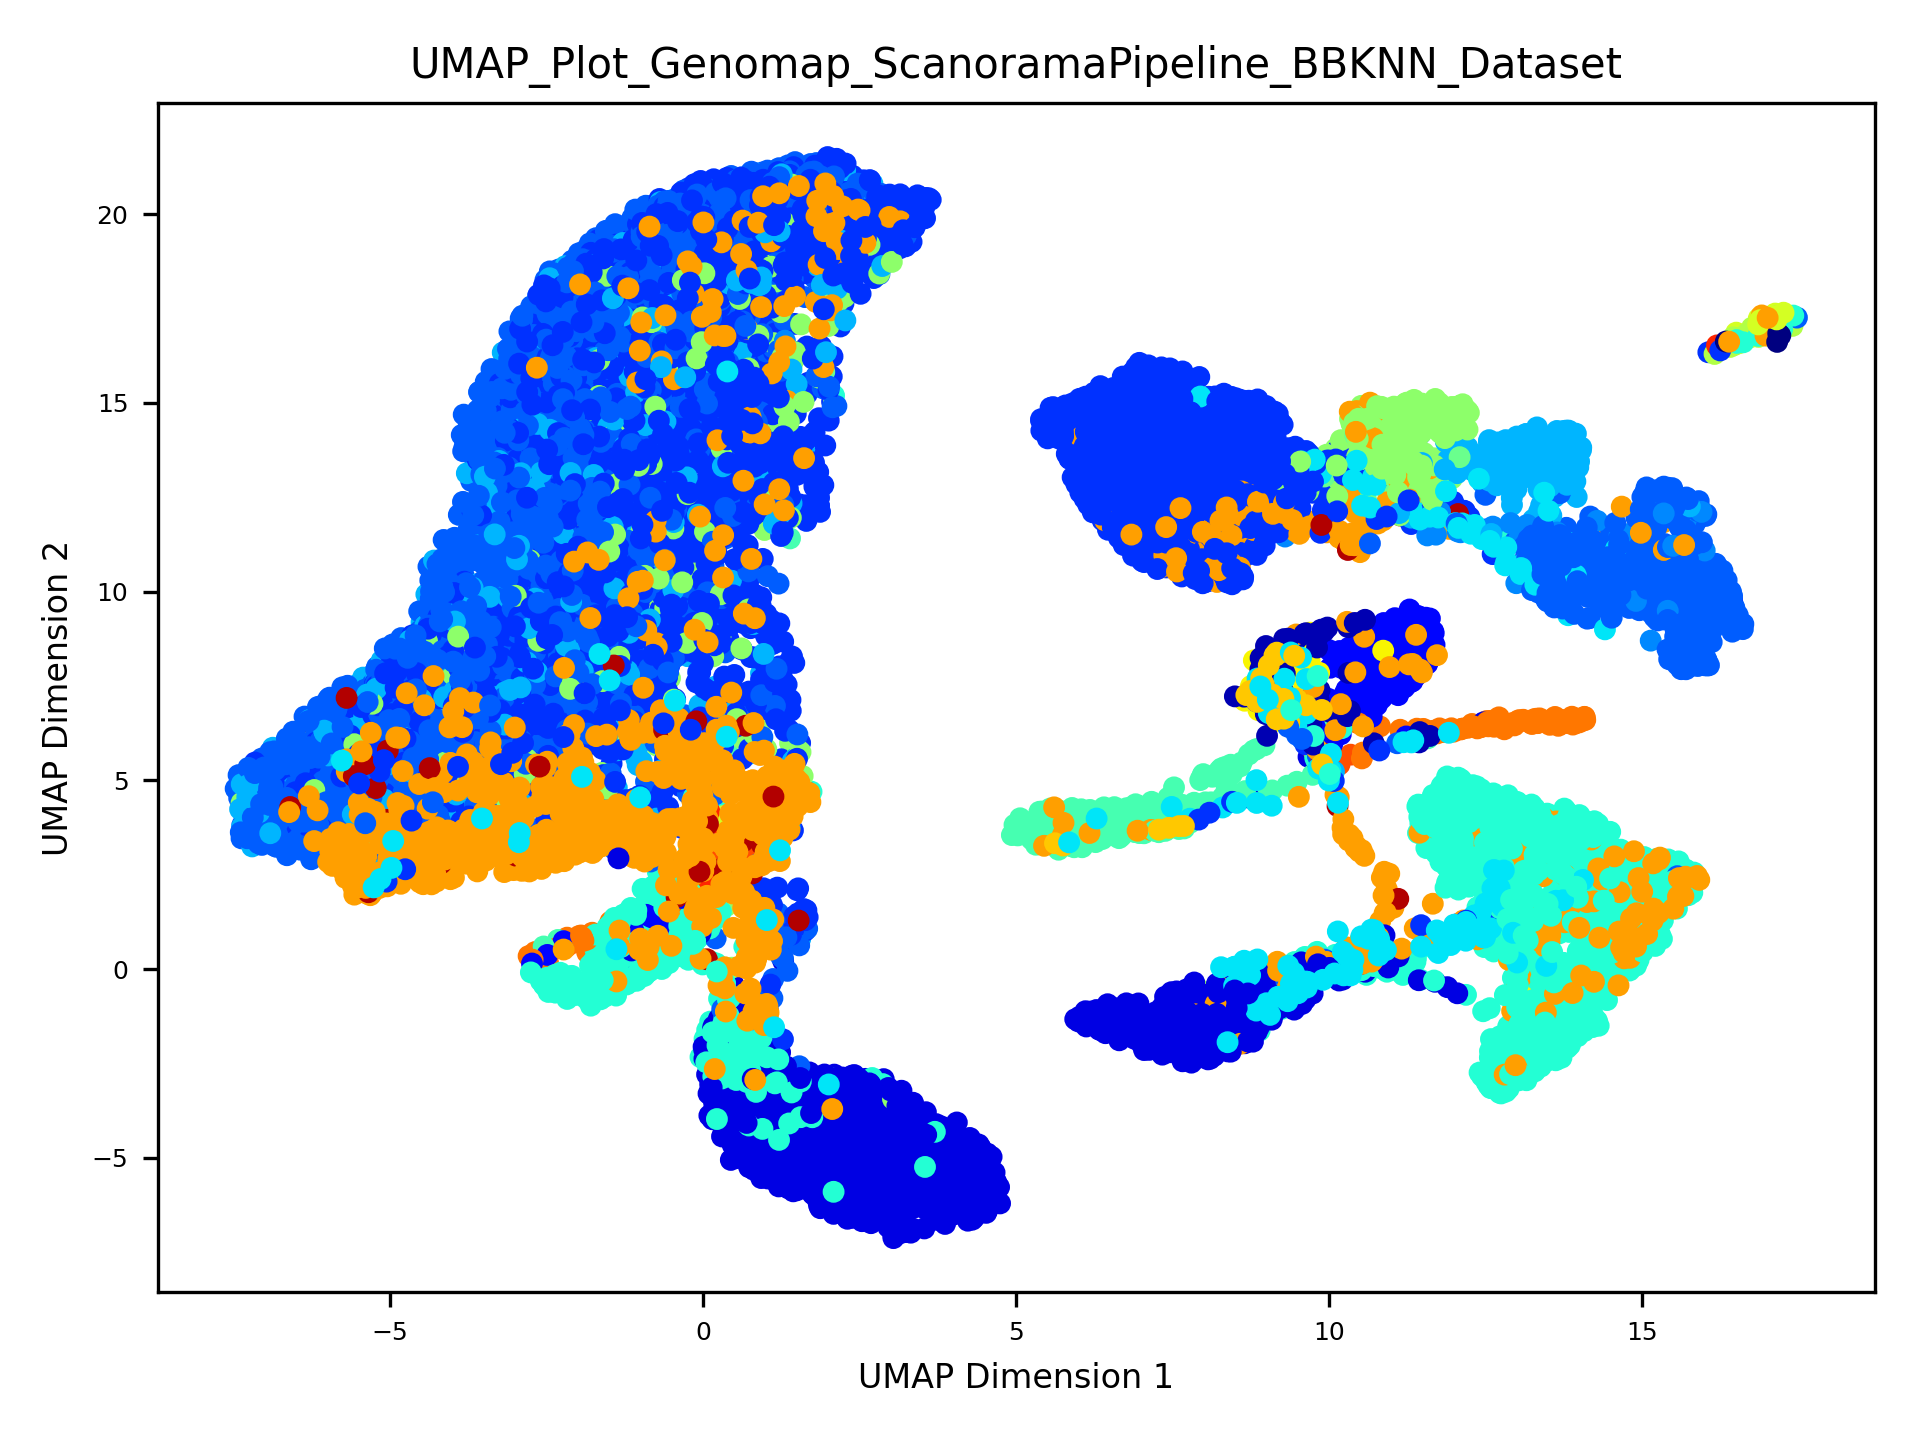
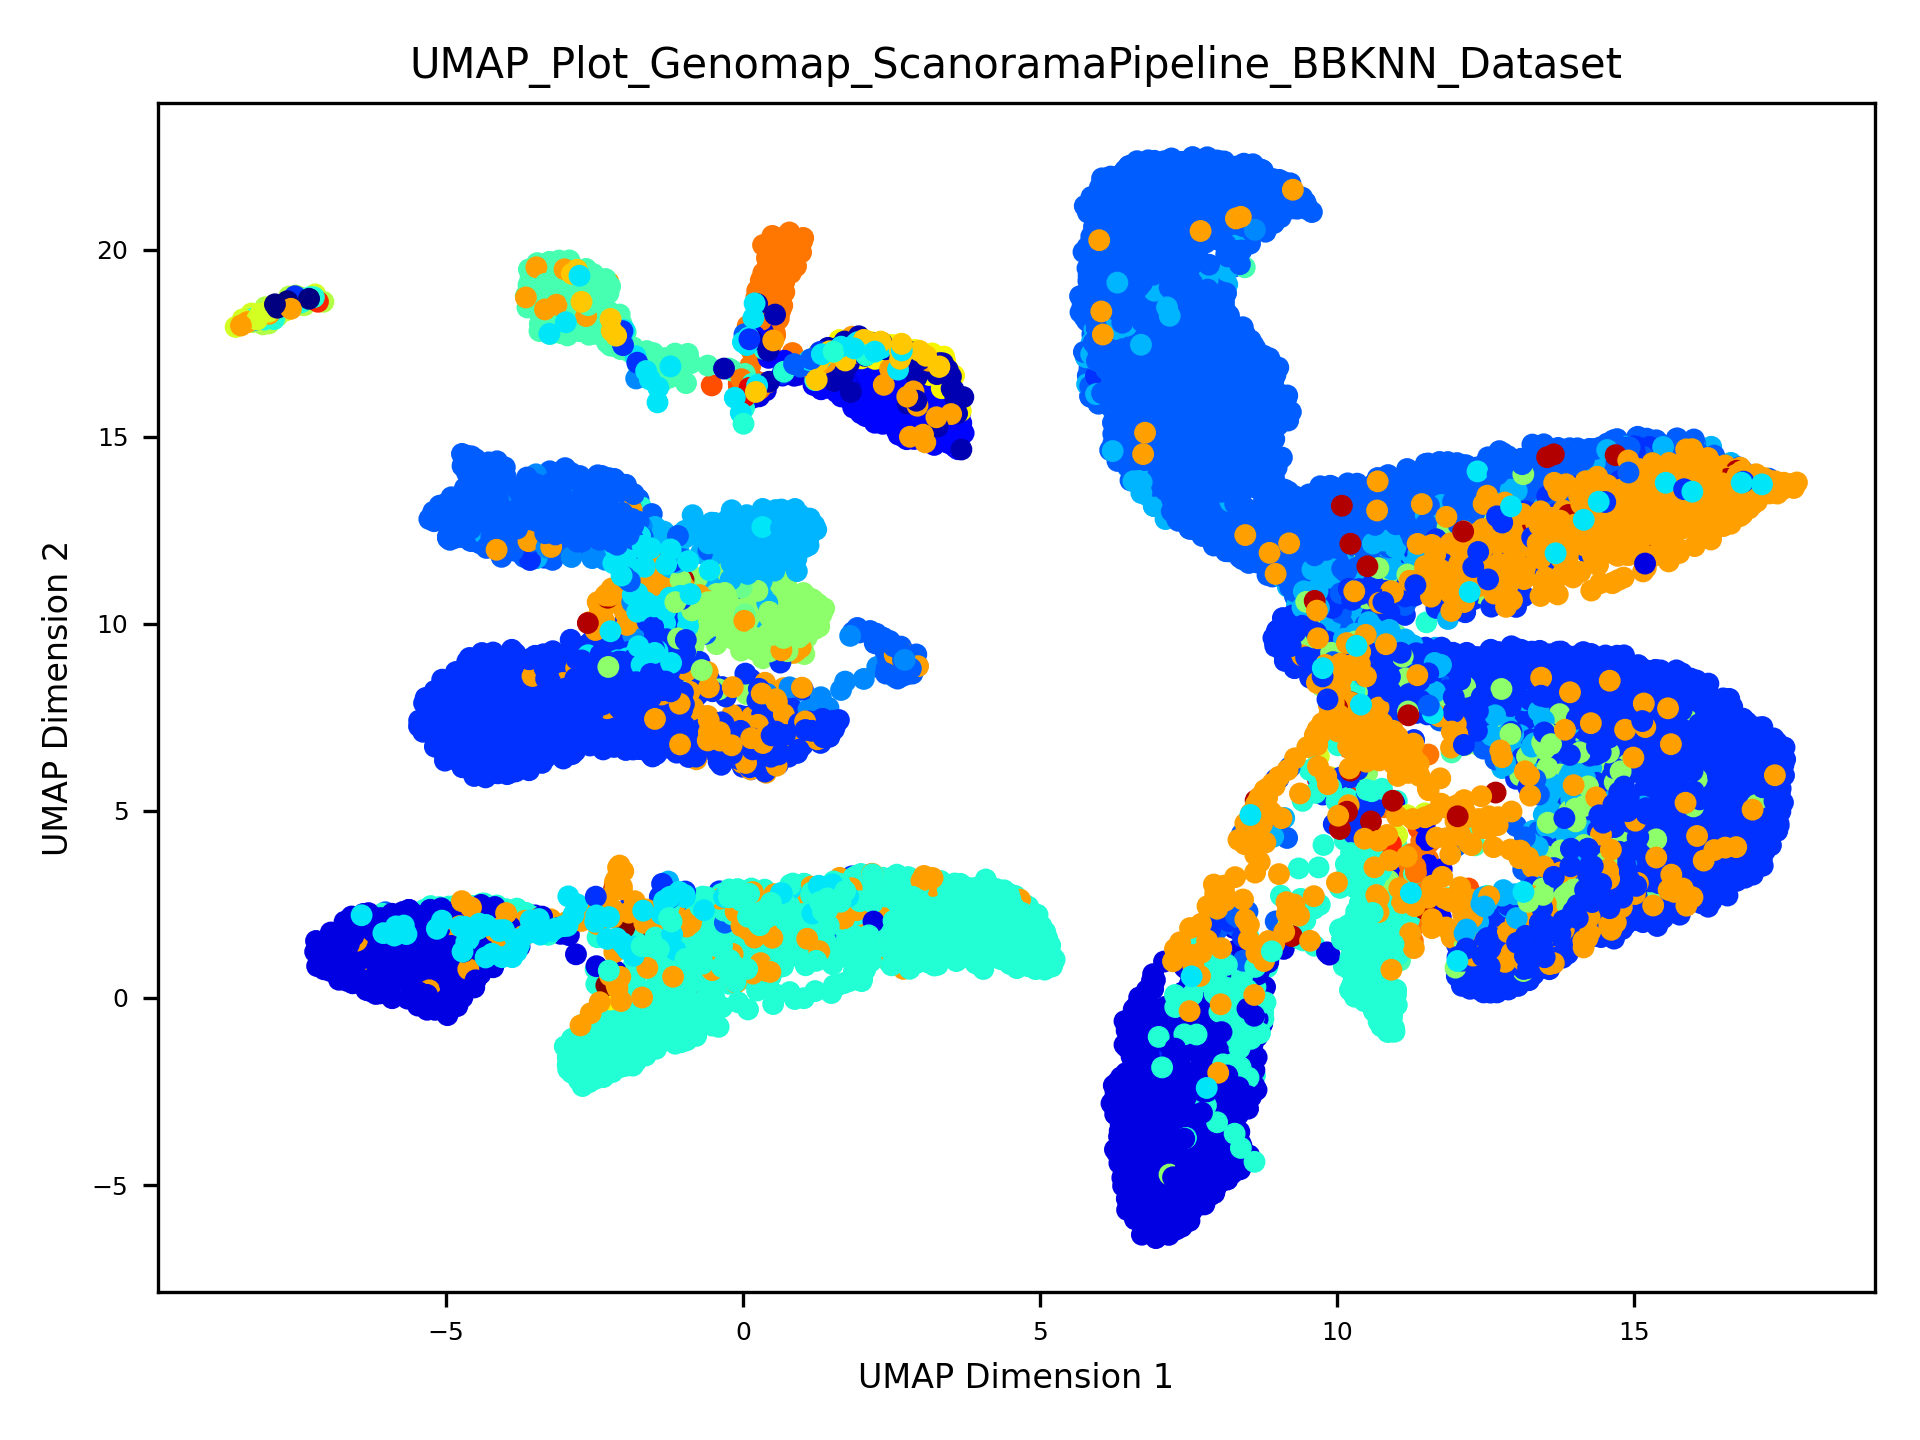
updated files

diff --git a/ScanoramaDataset/Scanorama_Arlgoritom_Scanorama_Dataset.py b/ScanoramaDataset/Scanorama_Arlgoritom_Scanorama_Dataset.py
@@ -20,7 +20,7 @@ def plot_embedding(X, y, title, filename):
     plt.scatter(X[:, 0], X[:, 1], c=y, cmap='jet', s=18)
     plt.xlabel(f'{title} Dimension 1', fontsize=5)
     plt.ylabel(f'{title} Dimension 2', fontsize=5)
-    plt.title(f'{filename}', fontsize=5)
+    plt.title(f'{filename}', fontsize=10)
     plt.xticks(fontsize=5)
     plt.yticks(fontsize=5)
     plt.grid(False)
@@ -108,8 +108,8 @@ def main():
     true_labels = adata_integrated.obs['celltype'].astype('category').cat.codes.to_numpy()
     cluster_labels = adata_integrated.obs['leiden'].astype('category').cat.codes.to_numpy()
 
-    plot_embedding(adata_integrated.obsm['X_umap'], true_labels, "UMAP", "UMAP_Plot_Using_Scanorama_Algorithom_With_Scanorama_Dataset")
-    plot_embedding(adata_integrated.obsm['X_tsne'], true_labels, "t-SNE", "t-SNE_Plot_Using_Scanorama_Algorithom_With_Scanorama_Dataset")
+    plot_embedding(adata_integrated.obsm['X_umap'], true_labels, "UMAP", "UMAP_Plot_Scanorama_Algorithm_Scanorama_Dataset")
+    plot_embedding(adata_integrated.obsm['X_tsne'], true_labels, "t-SNE", "t-SNE_Plot_Scanorama_Algorithm_Scanorama_Dataset")
 
     ari = adjusted_rand_score(true_labels, cluster_labels)
     rand = rand_score(true_labels, cluster_labels)
@@ -117,9 +117,9 @@ def main():
     silhouette = silhouette_score(adata_integrated.obsm['X_umap'], cluster_labels)
 
     logging.info(f"ARI: {ari:.3f}, Rand Index: {rand:.3f}, Silhouette Score: {silhouette:.3f}")
-    
-    plot_metrics_bar(ari, rand, silhouette, "Scanorama_Algorithm_With_Scanorama_data")
-    save_metrics_csv(ari, rand, silhouette, "CSV_Scanorama_Algorithm_With_Scanorama_data")
+
+    plot_metrics_bar(ari, rand, silhouette, "Scanorama_Algorithm_Scanorama_Dataset")
+    save_metrics_csv(ari, rand, silhouette, "CSV_Scanorama_Algorithm_Scanorama_Dataset")
 
     logging.info("Analysis complete.")
 

diff --git a/ScanoramaDataset/BBKNN_Algorithom_Scanoroma_Dataset.py b/ScanoramaDataset/BBKNN_Algorithom_Scanoroma_Dataset.py
@@ -21,7 +21,7 @@ def plot_embedding(X, y, title, filename):
     plt.scatter(X[:, 0], X[:, 1], c=y, cmap='jet', s=18)
     plt.xlabel(f'{title} Dimension 1', fontsize=5)
     plt.ylabel(f'{title} Dimension 2', fontsize=5)
-    plt.title(f'{filename}', fontsize=5)
+    plt.title(f'{filename}', fontsize=10)
     plt.xticks(fontsize=5)
     plt.yticks(fontsize=5)
     plt.grid(False)
@@ -114,8 +114,8 @@ def main():
     true_labels = adata.obs['celltype'].astype('category').cat.codes.to_numpy()
     cluster_labels = adata.obs['leiden'].astype('category').cat.codes.to_numpy()
 
-    plot_embedding(adata.obsm['X_umap'], true_labels, "UMAP", "UMAP_Plot_Using_BBKNN_Algorithom_With_Scanorama_Dataset")
-    plot_embedding(adata.obsm['X_tsne'], true_labels, "t-SNE", "t-SNE_Plot_Using_BBKNN_Algorithom_With_Scanorama_Dataset")
+    plot_embedding(adata.obsm['X_umap'], true_labels, "UMAP", "UMAP_Plot_BBKNN_Algorithm_Scanorama_Dataset")
+    plot_embedding(adata.obsm['X_tsne'], true_labels, "t-SNE", "t-SNE_Plot_BBKNN_Algorithm_Scanorama_Dataset")
 
     # Clustering evaluation
     ari = adjusted_rand_score(true_labels, cluster_labels)
@@ -123,8 +123,8 @@ def main():
     silhouette = silhouette_score(adata.obsm['X_umap'], cluster_labels)
   
     # Plot metrics bar chart and save it to CSV
-    plot_metrics_bar(ari, rand, silhouette, "BBKNN_Algorithm_With_Scanorama_data")
-    save_metrics_csv(ari, rand, silhouette, "CVS_BBKNN_Algorithm_With_Scanorama_data")
+    plot_metrics_bar(ari, rand, silhouette, "BBKNN_Algorithm_Scanorama_Dataset")
+    save_metrics_csv(ari, rand, silhouette, "CSV_BBKNN_Algorithm_Scanorama_Dataset")
 
 if __name__ == "__main__":
     main()

diff --git a/ScanoramaDataset/Genomap_Algorithom_Scanoroma_Dataset.py b/ScanoramaDataset/Genomap_Algorithom_Scanoroma_Dataset.py
@@ -101,8 +101,8 @@ def main():
     sc.tl.umap(adata, min_dist=0.1)
     sc.tl.tsne(adata, use_rep='X_genomap')
 
-    plot_embedding(adata.obsm['X_umap'], true_labels, 'UMAP', 'UMAP_Plot_Genomap_With_Scanorama_Dataset')
-    plot_embedding(adata.obsm['X_tsne'], true_labels, 't-SNE', 't-SNE_Plot_Genomap_With_Scanorama_Dataset')
+    plot_embedding(adata.obsm['X_umap'], true_labels, 'UMAP', 'UMAP_Plot_Genomap_Algorithm_Scanorama_Dataset')
+    plot_embedding(adata.obsm['X_tsne'], true_labels, 't-SNE', 't-SNE_Plot_Genomap_Algorithm_Scanorama_Dataset')
 
     # --- 5. EVALUATION ---
     logging.info("Calculating evaluation metrics...")
@@ -113,8 +113,8 @@ def main():
 
     logging.info(f"ARI: {ari:.3f}, Rand Index: {rand:.3f}, Silhouette Score: {silhouette:.3f}")
 
-    plot_metrics_bar(ari, rand, silhouette, "Genomap_Algorithm_With_Scanorama_data")
-    save_metrics_csv(ari, rand, silhouette, "CSV_Genomap_Algorithm_With_Scanorama_data")
+    plot_metrics_bar(ari, rand, silhouette, "Genomap_Algorithm_Scanorama_Dataset")
+    save_metrics_csv(ari, rand, silhouette, "CSV_Genomap_Algorithm_Scanorama_Dataset")
 
     logging.info("Analysis complete.")
 

diff --git a/ScanoramaDataset/iNMF_Algorithom_Scanoroma_Dataset.py b/ScanoramaDataset/iNMF_Algorithom_Scanoroma_Dataset.py
@@ -21,7 +21,7 @@ def plot_embedding(X, y, title, filename):
     plt.scatter(X[:, 0], X[:, 1], c=y, cmap='jet', s=18)
     plt.xlabel(f'{title} Dimension 1', fontsize=5)
     plt.ylabel(f'{title} Dimension 2', fontsize=5)
-    plt.title(f'{filename}', fontsize=5)
+    plt.title(f'{filename}', fontsize=10)
     plt.xticks(fontsize=5)
     plt.yticks(fontsize=5)
     plt.grid(False)
@@ -121,8 +121,8 @@ def main():
     logging.info(f"ARI: {ari:.3f}, Rand Index: {rand:.3f}, Silhouette Score: {silhouette:.3f}")
 
     # Plot and save metrics
-    plot_metrics_bar(ari, rand, silhouette, "iNMF_Algorithm_With_Scanorama_data")
-    save_metrics_csv(ari, rand, silhouette, "CSV_iNMF_Algorithm_With_Scanorama_data")
+    plot_metrics_bar(ari, rand, silhouette, "iNMF_Algorithm_With_Scanorama_Dataset")
+    save_metrics_csv(ari, rand, silhouette, "CSV_iNMF_Algorithm_With_Scanorama_Dataset")
 
 if __name__ == "__main__":
     main()

diff --git a/BBKNNDataset/Scanorama_Algorithom_BBKNN_Dataset.py b/BBKNNDataset/Scanorama_Algorithom_BBKNN_Dataset.py
@@ -116,8 +116,8 @@ def main():
     sc.tl.tsne(adata, use_rep='X_scanorama')
     
     true_labels_cat = adata.obs[CELLTYPE_KEY].astype('category').cat.codes
-    plot_embedding(adata.obsm['X_umap'], true_labels_cat, "UMAP", "UMAP_Plot_Scanorama_BBKNN_Dataset")
-    plot_embedding(adata.obsm['X_tsne'], true_labels_cat, "t-SNE", "TSNE_Plot_Scanorama_BBKNN_Dataset")
+    plot_embedding(adata.obsm['X_umap'], true_labels_cat, "UMAP", "UMAP_Plot_Scanorama_Algorithm_With_BBKNN_Dataset")
+    plot_embedding(adata.obsm['X_tsne'], true_labels_cat, "t-SNE", "TSNE_Plot_Scanorama_Algorithm_With_BBKNN_Dataset")
 
     # 4. Evaluation
     logging.info("Calculating evaluation metrics...")

diff --git a/BBKNNDataset/BBKNN_Algorithom_BBKNN_Dataset.py b/BBKNNDataset/BBKNN_Algorithom_BBKNN_Dataset.py
@@ -105,8 +105,8 @@ def main():
     sc.tl.tsne(adata, n_pcs=50)
     
     true_labels_cat = adata.obs[CELLTYPE_KEY].astype('category').cat.codes
-    plot_embedding(adata.obsm['X_umap'], true_labels_cat, "UMAP", "UMAP_Plot_BBKNN_BBKNN_Dataset")
-    plot_embedding(adata.obsm['X_tsne'], true_labels_cat, "t-SNE", "TSNE_Plot_BBKNN_BBKNN_Dataset")
+    plot_embedding(adata.obsm['X_umap'], true_labels_cat, "UMAP", "UMAP_Plot_Algorithm_with_BBKNN_Dataset")
+    plot_embedding(adata.obsm['X_tsne'], true_labels_cat, "t-SNE", "TSNE_Plot_Algorithm_with_BBKNN_Dataset")
 
     # 4. Evaluation
     logging.info("Calculating evaluation metrics...")

diff --git a/GenomapDataset/BBKNN_Algorithom_Genomap_DataSet.py b/GenomapDataset/BBKNN_Algorithom_Genomap_DataSet.py
@@ -137,8 +137,8 @@ def main():
     
     logging.info(f"ARI: {ari:.3f}, Rand Index: {rand:.3f}, Silhouette Score: {silhouette:.3f}")
 
-    plot_metrics_bar(ari, rand, silhouette, "BBKNN_Algorithm_With_Genomap_data")
-    save_metrics_csv(ari, rand, silhouette, "CSV_BBKNN_Algorithm_With_Genomap_data")
+    plot_metrics_bar(ari, rand, silhouette, "BBKNN_Algorithm_With_Genomap_dataset")
+    save_metrics_csv(ari, rand, silhouette, "CSV_BBKNN_Algorithm_With_Genomap_dataset")
     
     logging.info("BBKNN analysis complete.")
 

diff --git a/BBKNNDataset/Genomap_Algorithom_BBKNN_Dataset.py b/BBKNNDataset/Genomap_Algorithom_BBKNN_Dataset.py
@@ -117,7 +117,7 @@ def main():
     
     true_labels_cat = adata.obs[CELLTYPE_KEY].astype('category').cat.codes
     # Update filenames to reflect the new workflow
-    plot_filename_prefix = "Genomap_ScanoramaPipeline_BBKNN_Dataset"
+    plot_filename_prefix = "Genomap_Algorithm_With_BBKNN_Dataset"
     plot_embedding(adata.obsm['X_umap'], true_labels_cat, "UMAP", f"UMAP_Plot_{plot_filename_prefix}")
     plot_embedding(adata.obsm['X_tsne'], true_labels_cat, "t-SNE", f"TSNE_Plot_{plot_filename_prefix}")
 
